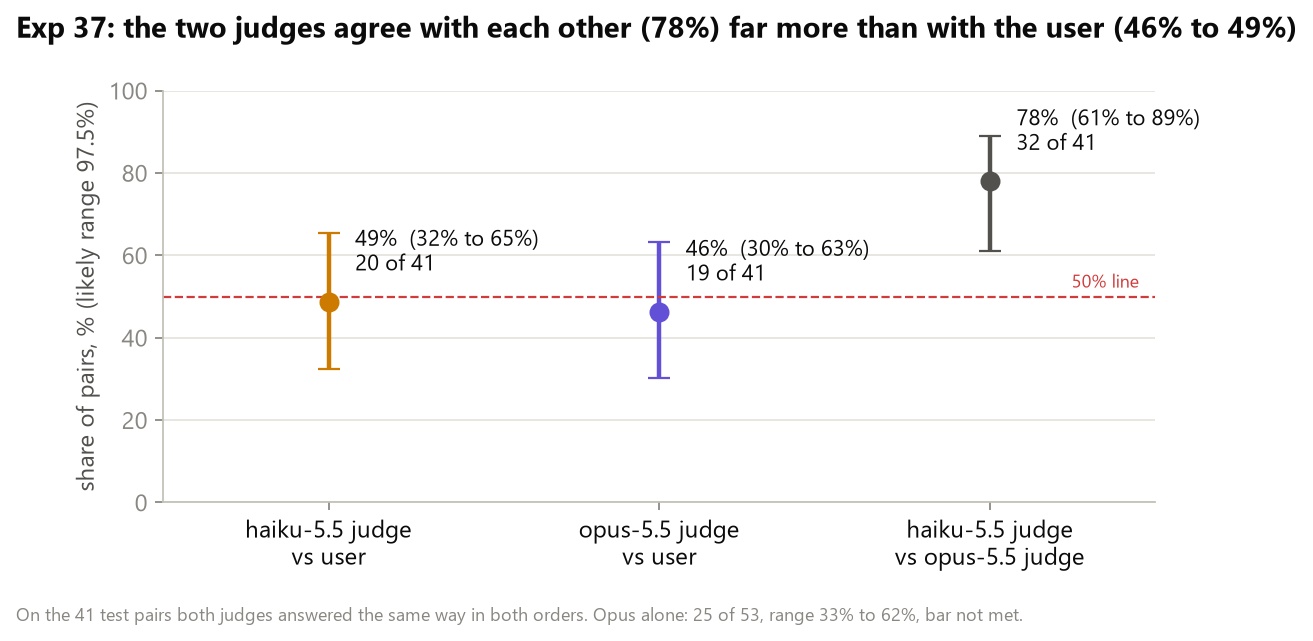
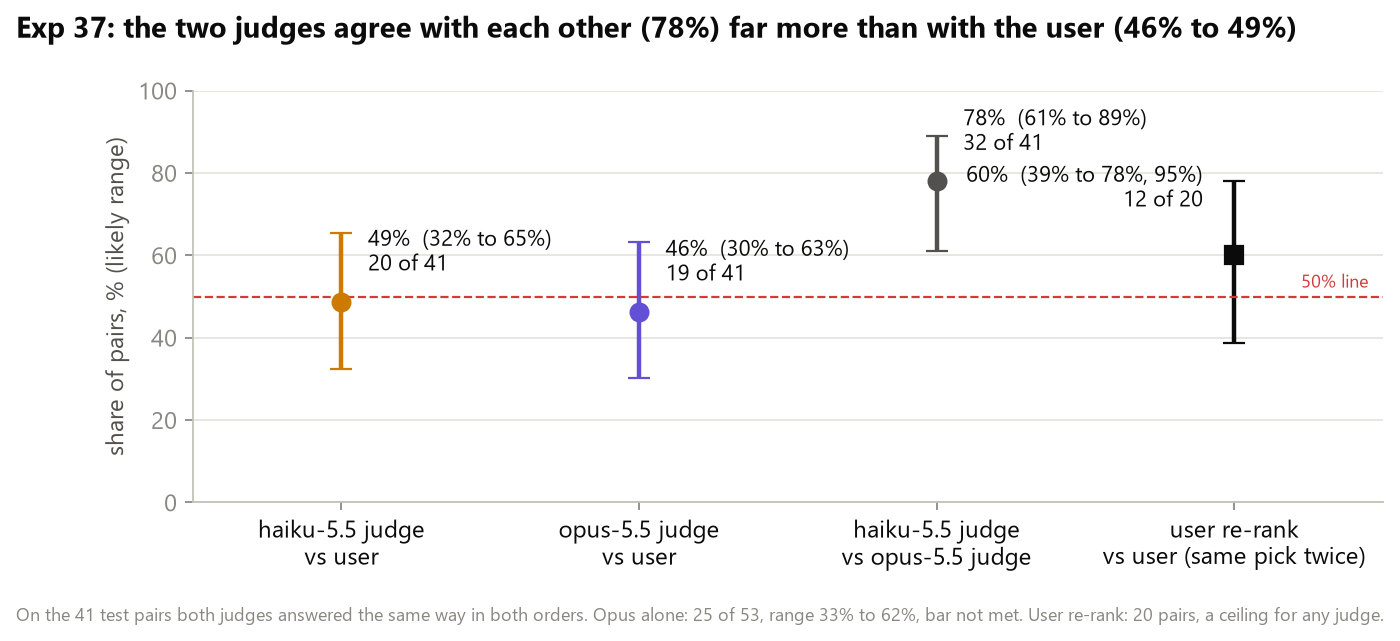
docs(dpo): :memo: record the re-rank: the user repeats their own pick only 60% of the time
Without a self-agreement number, a judge at 50% could not be told apart from a judge that is as good as any copy of the user's taste can be. The re-rank gives 12 of 20 (71% ignoring ties), which caps a perfect judge at about 72% to 82% agreement. The two readings (no shared taste, pairs too close to call) stay open at 20 pairs, and D-123's eval bar has to account for that noise. Verdicts unchanged.

diff --git a/docs/status.md b/docs/status.md
@@ -1,6 +1,6 @@
 # Status (read this first in a new session)
 
-Last updated: 2026-11-27 (DPO pairs: Exp 36 done and not met, Haiku 5.5 picked your bit on 24 of 46 consistent pairs (52%, range 38% to 66%), so DPO does not run on its labels, D-121; Exp 37 (D-122) tried Opus 5.5 on the same pairs under a stricter bar and also failed, 25 of 53 (47%, range 33% to 62%), cost $0.91: DPO does not run on either judge's labels, the two judges agree with each other on 78% of 41 pairs but with you on under 50%; your re-rank of 20 pairs is running; next is D-123 (DPO toward the AI judge's taste, stacked PR); show ledger: 36 logged shows, one row each, ratings per setup, D-116, Exp 32; a topic and two robot facts for every bit: D-117, Exp 33 recorded, kept off because the new bit was not funnier in enough pairs; D-118 / Exp 34 tried the topic alone, recorded, kept off because 17.5% of bits were still on hardware (bar 15%); Exp 27 extended to 100 prompts and passed on the 80 new ones, gen-v5 is now the live prompt, D-111 addendum; Exp 29 recorded and D-115's live check; per-bit stage timings logged, D-113; bridge lines skip what the listener has heard, D-112; counted schema, re-ask and a connected-prompt candidate, D-111; Exp 26 passed, Exp 27 inconclusive on judge v1, Exp 30 done: judge v2 kept and trusted, D-114; tonight's context for the writer: D-119, Exp 35 rerun passed both bars, on by default; country, state, city, company and product names allowed and public figures in the news nameable when approved: D-119 addendum, D-120, rules-v3). Update this file whenever the state below changes.
+Last updated: 2026-11-27 (DPO pairs: Exp 36 done and not met, Haiku 5.5 picked your bit on 24 of 46 consistent pairs (52%, range 38% to 66%), so DPO does not run on its labels, D-121; Exp 37 (D-122) tried Opus 5.5 on the same pairs under a stricter bar and also failed, 25 of 53 (47%, range 33% to 62%), cost $0.91: DPO does not run on either judge's labels, the two judges agree with each other on 78% of 41 pairs but with you on under 50%; your re-rank of 20 pairs is done: you repeat your own pick on 12 of 20 (60%, range 39% to 78%), so a perfect judge would match one answer only about 72% to 82% of the time, and the data cannot separate "no shared taste" from "pairs too close to call"; next is D-123 (DPO toward the AI judge's taste, stacked PR); show ledger: 36 logged shows, one row each, ratings per setup, D-116, Exp 32; a topic and two robot facts for every bit: D-117, Exp 33 recorded, kept off because the new bit was not funnier in enough pairs; D-118 / Exp 34 tried the topic alone, recorded, kept off because 17.5% of bits were still on hardware (bar 15%); Exp 27 extended to 100 prompts and passed on the 80 new ones, gen-v5 is now the live prompt, D-111 addendum; Exp 29 recorded and D-115's live check; per-bit stage timings logged, D-113; bridge lines skip what the listener has heard, D-112; counted schema, re-ask and a connected-prompt candidate, D-111; Exp 26 passed, Exp 27 inconclusive on judge v1, Exp 30 done: judge v2 kept and trusted, D-114; tonight's context for the writer: D-119, Exp 35 rerun passed both bars, on by default; country, state, city, company and product names allowed and public figures in the news nameable when approved: D-119 addendum, D-120, rules-v3). Update this file whenever the state below changes.
 
 Learning the material from scratch (RL foundations → our experiments → Explorer runbook):
 [study-guide.md](study-guide.md).
@@ -70,7 +70,7 @@ Learning the material from scratch (RL foundations → our experiments → Explo
    **Generator (D-110): one thread per call.** Each bit is now 3 parallel calls on one prompt, one thread of 5 jokes each, so a DPO example is one request and the 5 jokes the audience hears. Exp 24 stays frozen on the old one-call generator (digest `2a512264`). **D-111 (PR #79):** the reply schema counts the jokes, a bad shape is re-asked once, and a connected-bit prompt (gen-v5) was tested against gen-v4; gen-v5 won and the show now runs it (see the Exp 27 extension above). Why: simulated shows sent bits to the bank on wrong shapes and their lines didn't connect. **Results (2026-11-25):** Exp 26 passed (a bit takes 3.5 s at the median, 5.1 s at the 95th percentile, no thread lost). Exp 27 was inconclusive: the judge said gen-v5 is more connected (+0.22, interval +0.13 to +0.33) but agreed with you on only 4 of 10 threads (interval about 17% to 69%: too low to trust), so gen-v4 stayed live then. **Then (D-114, Exp 30, done):** a judge rewritten from your 10 answers (v2) was tested against the old one on 20 fresh threads you labelled blind; v2 agreed with you on 15 of 20 (v1: 14), was kept and trusted, and re-scored Exp 27 (extension above). Next: the 120-pair ranking tool (built, D-121).
    **Wait timing (D-113):** each bit now logs a `prep` row (writing, safety, voice queue, voice synthesis, other) and the first joke logs `bridge_overhang_s`, because show `6c09c721b0bb` waited 10 to 17 s before first jokes and the cause was unknown. **Exp 29 recorded (4 shows incl. one aborted, 23 bits): inconclusive.** Writer 34%, voice 28%, safety 22%, overhang 17%; interval -0.13 to +0.12. No fix is built under either verdict; on the 3 finished shows alone the writer led at 36%, which was a selection after seeing the data. D-115 has since removed most gaps ([metrics.md](metrics.md#where-a-bits-wait-goes-exp-29-2026-11-25)).
    **Bridge lines (D-112):** cached bridge lines now skip anything already played in any show on this laptop (`BRIDGE_SKIP_HEARD=0` turns it off for a new audience). Exp 28 counted 17 of 17 cached lines in your last show as already heard. With you as the only listener the cached pool is now empty, so the 10 filler lines cover every wait, and you have already heard all 10 (Exp 28), so they repeat across shows The order is now shuffled per show (seed logged); the next step is 20 to 30 new lines you approve by ear (explore-next #13, its own PR).
-   **What Exp 24 was for:** the trained model speaks on Dec 8, and only a local model can be trained, so the local winner is the SFT/DPO base; Haiku is the yardstick and fallback writer. **Exp 36 (D-121) is done and failed (2026-11-27).** Claude Haiku 5.5, taught with 60 of your same-writer pairs, answered 46 of 60 test pairs the same way in both orders (bar 30) but picked your bit on 24 of those 46: 52%, likely range 38% to 66%, bar: low end above 50%. Both halves near 50%. So DPO does not run on its labels (D-102). Ranking took you about 12 to 16 hours (your report), so answers now carry a time. **Exp 37 (D-122) is done and failed too (2026-11-27).** Claude Opus 5.5 on the same pairs: 53 of 60 consistent (bar 30), picked your bit on 25 of 53 (47%, 97.5% range 33% to 62%, bar: low end above 50%). Cost $0.91 (120 calls). On the 41 test pairs both judges answered consistently, Haiku and Opus pick the same bit 78% of the time (range 61% to 89%) but yours only 46% to 49%: a taste they share that is not yours, or your close-pair picks are noisy. Your re-rank of 20 pairs (`rerank`, started after both records) will tell these apart; it is reported only and changes neither verdict. **So DPO does not run on your taste through either judge (D-122's rule). Next, your decision (2026-11-27): D-123, DPO toward the AI judge's taste with a second writer on your pairs, on qwen3:4b-instruct, is being built in a stacked PR.** The report gets two strong judges at a coin flip on same-model pairs: a clean negative result for an LLM judge as a stand-in for one person's taste. [Exp 36](metrics.md#does-the-judge-agree-with-you-on-same-writer-pairs-exp-36), [Exp 37](metrics.md#does-claude-opus-55-agree-with-you-on-the-same-pairs-exp-37).
+   **What Exp 24 was for:** the trained model speaks on Dec 8, and only a local model can be trained, so the local winner is the SFT/DPO base; Haiku is the yardstick and fallback writer. **Exp 36 (D-121) is done and failed (2026-11-27).** Claude Haiku 5.5, taught with 60 of your same-writer pairs, answered 46 of 60 test pairs the same way in both orders (bar 30) but picked your bit on 24 of those 46: 52%, likely range 38% to 66%, bar: low end above 50%. Both halves near 50%. So DPO does not run on its labels (D-102). Ranking took you about 12 to 16 hours (your report), so answers now carry a time. **Exp 37 (D-122) is done and failed too (2026-11-27).** Claude Opus 5.5 on the same pairs: 53 of 60 consistent (bar 30), picked your bit on 25 of 53 (47%, 97.5% range 33% to 62%, bar: low end above 50%). Cost $0.91 (120 calls). On the 41 test pairs both judges answered consistently, Haiku and Opus pick the same bit 78% of the time (range 61% to 89%) but yours only 46% to 49%: a taste they share that is not yours, or your close-pair picks are noisy. Your re-rank of 20 pairs: same pick again on 12 of 20 (60%, range 39% to 78%; 71% ignoring 3 ties), so p is about 72% to 82% and that is the ceiling for a judge; judges at 52% and 47% sit below it but the ranges overlap, so the two readings stay open. Median 62 s per answer, 31 minutes in all. Reported only; both verdicts unchanged. D-123's Exp 38 bar must account for this noise (separate PR). **So DPO does not run on your taste through either judge (D-122's rule). Next, your decision (2026-11-27): D-123, DPO toward the AI judge's taste with a second writer on your pairs, on qwen3:4b-instruct, is being built in a stacked PR.** The report gets two strong judges at a coin flip on same-model pairs: a clean negative result for an LLM judge as a stand-in for one person's taste. [Exp 36](metrics.md#does-the-judge-agree-with-you-on-same-writer-pairs-exp-36), [Exp 37](metrics.md#does-claude-opus-55-agree-with-you-on-the-same-pairs-exp-37).
    **Safety filter: Claude Haiku 5.5, thinking off (D-100),** in shows and in Exp 24. It passed Exp 19's safety bars; p95 3.6 s per bit against a 7 s limit (moved from 3 s after the data). Not yet checked: the 2 s between-bit silence rule, which the Exp 23 shows will show.
 4. Week 6: final sim figures for the report.
 5. Callbacks (C2) after the demo and DPO. C1 is closed as a negative result unless the user reopens it.

diff --git a/docs/decisions.md b/docs/decisions.md
@@ -125,7 +125,7 @@ What we decided and why, one line each. Click an ID for the full record (options
 | [D-119](agent/decisions-detail.md#d-119) | Nov 26 | The writer now gets tonight's context: the S&P 500's last move, news stories turned into one-sentence summaries (death, disaster, crime and war dropped; holidays, sports teams, countries, states, big cities and checked companies and products may be named), and one optional line you type. You approve every summary before the show; bits 2 and 6 take one as their topic. **Exp 35:** the first run was too small to decide (1 summary kept); after fixes (longer fetch, two weeks of news, names allowed) the rerun kept 23 and **passed both bars: adopt**. You rejected 2 of 23 (9%, likely range 2% to 27%, so one day cannot rule out above 20%), and the new bits were funnier in 5 of 10 pairs, the minimum, so "not clearly worse", not "funnier". **On by default.** `TONIGHT=0` turns it off. |
 | [D-120](agent/decisions-detail.md#d-120) | Nov 26 | Public figures in the news (a politician, CEO, celebrity or athlete, when the story is about what they did or said) may now be named in the summaries and jokes, but only if the name is in the headline and you approved the summary showing it; jokes about them still never touch their body, appearance, health, family or who they are. The line you type still takes no person names, and people in the room are never named. Judgment call. The Exp 35 rerun found no name that should not be there (0 flagged), but no public figure was approved that day, so how jokes use them is not yet measured. |
 | [D-121](agent/decisions-detail.md#d-121) | Nov 26 | You rank 120 pairs of bits (two bits of one request, both by the same writer), and a judge must prove it agrees with you before it labels anything for DPO. A background writer makes the candidate pairs with the live writer (half the requests carry tonight's context, half do not); the safety check keeps unsafe threads out. `python -m sim.dpo_pairs rank` shows two bits at a time (1, 2, tie, skip; ties and skips are replaced), about 70 minutes in sittings. 60 pairs teach the judge your taste and 60 are held back as the test. The judge is Claude Haiku 5.5 (your choice; a local Qwen would be weaker and share the GPU with the writer). **The bar (Exp 36):** a test pair the judge answers differently in the two orders of showing gets no label (and is dropped from DPO too). The judge passes if it answers at least 30 of the 60 the same way in both orders, and among those its agreement with you has a likely range above 50% (21 of 30, or 38 of 60, is the least that clears). Limits: one day of headlines for now, so the training pool is rebuilt with 3 or more days before the judge labels it; whether the judge stays right as DPO changes the model is not checked. **Result: not met.** The judge answered 46 of the 60 test pairs the same way in both orders (bar: 30), but picked your bit on only 24 of those 46 (52%, likely range 38% to 66%, bar: low end above 50%). Haiku does not predict your taste on pairs from one writer, so DPO does not run on its labels. Ranking took you about 12 to 16 hours, not 70 minutes, so answers now carry a time. |
-| [D-122](agent/decisions-detail.md#d-122) | Nov 27 | Haiku failed, so you chose to try Claude Opus 5.5 as the judge on the same 120 pairs rather than rank fresh ones (that took 12 to 16 hours). One model only, chosen before running, same prompt and settings except that thinking cannot be turned off for Opus. Because the 60 test pairs were already used once, the bar is stricter before any Opus answer exists: at least 30 consistent pairs and the low end of a 97.5% range above 50% (22 of 30, 31 of 46 or 39 of 60 is the least that clears). A judge that is truly right 65% of the time passes about 70% of the time. Cost to run it: about $1 to $3 with caching, $9 to $11 without. If it passes, Opus may label the training pairs (about $40 to $120 for 4,800 calls); if it fails, DPO does not run and the project ships without it. Result: not met. Opus answered 53 of the 60 test pairs the same way in both orders (bar 30) but picked your bit on only 25 of those 53 (47%, likely range 33% to 62%, low end must be above 50%). The run cost $0.91. On the 41 pairs both judges answered consistently, Haiku and Opus pick the same bit 78% of the time but your bit only 46% to 49%, so they share a taste that is not yours, or your picks on close pairs are noisy. Your re-rank of 20 pairs, started after both results, will tell these apart; it changes neither verdict. DPO does not run on either judge's labels. |
+| [D-122](agent/decisions-detail.md#d-122) | Nov 27 | Haiku failed, so you chose to try Claude Opus 5.5 as the judge on the same 120 pairs rather than rank fresh ones (that took 12 to 16 hours). One model only, chosen before running, same prompt and settings except that thinking cannot be turned off for Opus. Because the 60 test pairs were already used once, the bar is stricter before any Opus answer exists: at least 30 consistent pairs and the low end of a 97.5% range above 50% (22 of 30, 31 of 46 or 39 of 60 is the least that clears). A judge that is truly right 65% of the time passes about 70% of the time. Cost to run it: about $1 to $3 with caching, $9 to $11 without. If it passes, Opus may label the training pairs (about $40 to $120 for 4,800 calls); if it fails, DPO does not run and the project ships without it. Result: not met. Opus answered 53 of the 60 test pairs the same way in both orders (bar 30) but picked your bit on only 25 of those 53 (47%, likely range 33% to 62%, low end must be above 50%). The run cost $0.91. On the 41 pairs both judges answered consistently, Haiku and Opus pick the same bit 78% of the time but your bit only 46% to 49%, so they share a taste that is not yours, or your picks on close pairs are noisy. Your re-rank of 20 pairs, started after both results, will tell these apart; it changes neither verdict. DPO does not run on either judge's labels. Your re-rank of 20 pairs then showed you pick the same bit again only 12 times in 20 (60%, likely range 39% to 78%), so even a perfect copy of your taste would match one answer only about 72% to 82% of the time; the judges sit below that, but 20 pairs cannot tell "no shared taste" from "pairs too close to call". |
 
 New decision: add its full entry to the detailed log with the next ID, then a row here in the same PR.
 A test fails if the two files' IDs don't match.

diff --git a/docs/agent/decisions-detail.md b/docs/agent/decisions-detail.md
@@ -1644,6 +1644,8 @@ Reading. The judge is consistent often enough (76% of pairs) but its consistent 
 
 **Ranking time (user's report, not measured).** The user reports the ranking took about 12 to 16 hours over Nov 26 to 27, not the planned 70 minutes (35 s a pair was a guess). The answers carry no timestamps, so this was not measured. From now on every new rank and rerank answer carries `at` (UTC, ISO, seconds); old answers stay as they are, and the record's key still covers them unchanged (tested). The planning figure for any future ranking should be counted in hours, not minutes: it matters for the "collect fresh pairs" option in D-122.
 
+**Update (2026-11-27, re-rank done).** The user re-ranked 20 of the 120 pairs (10 teach, 10 test; same two bits, sides re-drawn, earlier answer hidden). Same pick again on 12 of 20 (60%, likely range 39% to 78%, 95%); 3 re-picks were ties and count as disagreements. Ignoring ties, 12 of 17 decided re-picks (71%, 47% to 87%). Simple model, a judgment call: the user picks their true favourite with probability p each time, so repeat agreement is p^2 + (1-p)^2. 60% gives p of about 72% and 71% gives about 82%. So even a perfect copy of the user's taste would agree with any single answer only about 72% to 82% of the time: that is the ceiling for a judge on these pairs. The judges (52% and 47%) sit below it, but with 20 re-ranked pairs the ranges overlap, so the data cannot fully separate "the judges do not share the user's taste" from "the pairs are too close to call". Both stay open. On the 10 test pairs among the 20: Haiku agreed in both orders on 3 (4 had orders disagreeing), Opus on 4 (2 disagreeing). Both verdicts are unchanged (fail). Timing, from the `at` fields: median 62 s between consecutive answers (19 gaps), first to last answer 31 minutes; the first answer's own time is unknown.
+
 ## <a id="d-122"></a>D-122 · 2026-11-27 — Try Claude Opus 5.5 as the judge on the same 120 pairs, with a stricter bar for the second look (Exp 37) (user)
 Decided by the user, 2026-11-27, after Exp 36 failed (D-121). The model, the bar and the correction below are fixed **before any Opus answer exists**; nothing from Exp 37 can change them.
 
@@ -1728,3 +1730,5 @@ Reading, cautiously. The two judges agree with each other far more (78%, range 6
 **What it means for the report.** Two strong judges (Haiku 5.5, Opus 5.5, the second with thinking on and a stricter bar) sit at about a coin flip against one person's taste on close pairs from one writer: 24 of 46 and 25 of 53. That is a clean negative result for "an LLM judge as a stand-in for one person's taste on close pairs", not a result about Haiku or Opus in particular. What the data cannot say: whether any judge could do better (no user repeat rate), whether a judge does better on pairs less alike, or whether more teach pairs help (60 were used). The ship decision, per D-122's stated fallback, is the user's; this entry only records that DPO does not run on either judge's labels.
 
 **Update (2026-11-27, after both records; pre-merge review).** (1) The re-rank is running: the user started `rerank` after Exp 37 was recorded (9 of 20 answered at the review). "Skipped" and "not run" in D-121's and D-122's Results describe the state when the two gates were recorded. Both verdicts are fixed and never read the re-rank (tested); when it finishes, `score --record` and `score --model opus --record` add self-agreement beside them, and the Opus record also stores the judge-against-judge numbers (`judge_vs_judge`), so the notebooks read them from `reports/metrics` instead of the gitignored caches under `data/dpo/judge/`. Pending, not yet a result. (2) The cost estimate's token count was low: the measured cached prefix is 24,074 tokens (119 reads of 24,074 = the 2,864,806 read), against the 18,100 estimated from characters / 4, an undercount of 33%, beyond the 20% allowed for. The run still cost $0.91 because output was tiny. Any later Opus labelling estimate should use about 24,100 tokens a call: input about $31 for 4,800 calls with caching, not $23. (3) The next step is the user's (2026-11-27): D-123, DPO toward the AI judge's taste with a second writer on the user's pairs, on qwen3:4b-instruct, in a stacked PR.
+
+**Update (2026-11-27, re-rank done).** The re-rank is finished and both records now carry self-agreement: 12 of 20 same pick (60%, 39% to 78%; 12 of 17 ignoring ties, 71%, 47% to 87%), p of about 72% to 82% under the simple model, so a judge's ceiling is about 72% to 82%; Haiku and Opus at 52% and 47% are below it but the ranges overlap, so "no shared taste" and "pairs too close to call" are not separated (detail in D-121's Update). The Opus record also carries `judge_vs_judge` (32 of 41). Both verdicts are unchanged. For D-123's Exp 38: its eval bar must account for this noise; a separate PR will set it.

diff --git a/docs/metrics.md b/docs/metrics.md
@@ -1105,7 +1105,7 @@ Reading: the judge answered the same way in both orders often enough, but on tho
 
 Ranking time: you report 12 to 16 hours over Nov 26 to 27, not the planned 70 minutes. The answers had no times, so this is your estimate, not a measurement. New answers now carry a time.
 
-Self-agreement (reported only, no bar): not run when this was recorded. You started the re-rank of 20 pairs after Exp 37; it is pending. How often you pick the same way twice is a ceiling for any judge on these pairs. It does not change the verdict.
+Self-agreement (reported only, no bar; you re-ranked 20 pairs after Exp 37): you picked the same bit again on 12 of 20 (60%, likely range 39% to 78%). 3 re-picks were ties and count as disagreements; ignoring them, 12 of 17 (71%, 47% to 87%). If you pick your true favourite with probability p each time, repeat agreement is p^2 + (1-p)^2, so 60% to 71% means p of about 72% to 82%. Even a perfect copy of your taste would agree with one answer only about that often: the ceiling for a judge. Haiku (52%) is below it, but with 20 pairs the ranges overlap, so the data cannot separate "the judge does not share your taste" from "the pairs are too close to call". On the 10 test pairs among the 20, Haiku agreed in both orders on 3 (4 had orders disagreeing). The verdict is unchanged. Timing: median 62 s per answer, 31 minutes first to last.
 
 Top-up: about 40% of threads fail the show's safety check, so bits with fewer than 2 clean threads get up to 2 more batches on the same request (`topup`); bits you may already have seen are not changed.
 
@@ -1162,7 +1162,7 @@ Chance of passing, if the judge is right this often in each order and its two or
 
 The teach pairs have no answers in either cache: they are in the judge's prompt, so they were never asked.
 
-Reading: the two judges agree with each other far more than either agrees with you. That fits a shared model taste that differs from yours. It also fits your picks on close pairs being noisy. Your re-rank of 20 pairs (pending) will help tell these apart. 24 of 144 ranking answers were ties or skips, which says some pairs were hard for you too.
+Reading: the two judges agree with each other far more than either agrees with you. That fits a shared model taste that differs from yours. It also fits your picks on close pairs being noisy. Your re-rank of 20 pairs (below) could not fully tell these apart. 24 of 144 ranking answers were ties or skips, which says some pairs were hard for you too.
 
 Outcome: two strong judges at about a coin flip on same-model pairs (24 of 46, 25 of 53) is a clean negative result for "an LLM judge as a stand-in for one person's taste on close pairs". Per D-122's rule, DPO does not run on either judge's labels. You confirm the next step.
 
@@ -1176,4 +1176,5 @@ Both results go in the report.
 Caveats:
 - The same 60 test pairs are used twice. The stricter bar reduces the risk, it does not remove it.
 - Thinking is on for Opus and off for Haiku, so a difference between the two is the model and the thinking together.
-- How often you agree with yourself is not known yet: the re-rank of 20 pairs is pending. If it is low, no judge could pass.
+- You agree with yourself on 12 of 20 re-ranked pairs (60%, likely range 39% to 78%; 12 of 17, 71%, ignoring ties), so a perfect copy of your taste would match one answer only about 72% to 82% of the time (p^2 + (1-p)^2 model, a judgment call). The judges at 52% and 47% sit below that, but 20 pairs leave the ranges overlapping. On the 10 test pairs among the 20, Opus agreed in both orders on 4 (2 had orders disagreeing). Both verdicts are unchanged.
+- Re-rank timing: median 62 s per answer (gaps between consecutive answers), 31 minutes first to last.
